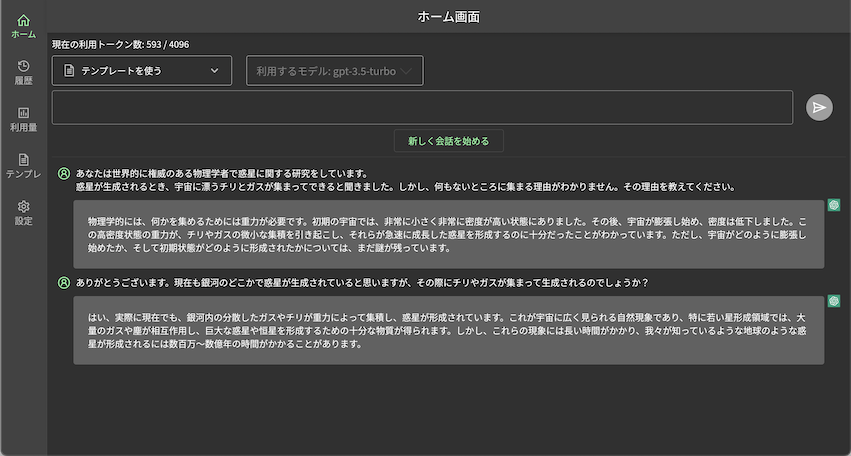
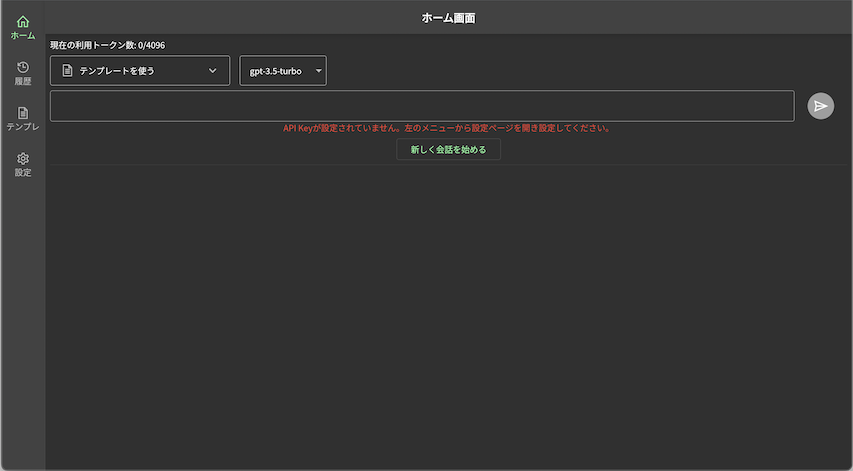
fix: READMEのimage画像が古かったので最新にして書きっぷりも少し修正

diff --git a/README.md b/README.md
@@ -1,12 +1,21 @@
 # assistant_me
 OpenAI APIを利用したアシスタントWebアプリです。  
-公式のChatGPTUIが個人的に使いづらく自分用にカスタマイズしたかったのが作成動機です。  
+OSSでもWebUIは既に多く出ていますが、自分用に自由にカスタマイズしたりチャット形式のWebアプリを1度Flutterで作ってみたかったというのが作成動機です。  
 
-本アプリは`Firebase Hosting`にデプロイする想定で作っています。  
-そのままでは`main.dart`がビルドエラーになりますが、`flutterfire configure`で`DefaultFirebaseOptions`を生成すれば解消されます。  
-また、RiverpodやHiveでGeneratorを使っているのでbuild_runnerを動かしてください。
+リポジトリのコードそのままでは`main.dart`がビルドエラーになりますので下に記載している「必要なもの」をご確認ください。
+また、`Riverpod`や`Hive`のGeneratorを使っているので初回は`build_runner`を実行してください。  
 
-APIKeyは永続領域には持たず、メモリに保持しているのでページをリロードしたり開き直すと再度設定が必要となります。  
+# 必要なもの
+1. デプロイ先のWebホスティングサービス
+2. OpenAI API Key
+
+# デプロイ先のWebホスティングサービスについて
+このリポジトリでは`Firebase Hosting`にデプロイする想定でファイルを管理しています。(Hostingである必要はありません)
+`Firebase Hosting`を利用する場合、初回はFirebaseプロジェクトを用意し`flutterfire configure`を実行してHostingの設定をしてください。
+`flutterfire`で設定完了すればlibディレクトリ直下に`firebase_options.dart`（`DefaultFirebaseOptions`クラス）が生成されビルドエラーが解消されます。  
+
+# OpenAI API Key
+`API Key`は永続領域ではなくメモリに保持しています。そのためページをリロードしたり開き直すと再度設定が必要となります。  
 
 # コマンド
 ```
@@ -17,6 +26,6 @@ flutter build web
 firebase deploy
 ```
 
-# スクショ
+# 画面スクショ
 <img src="./images/01_home.png" width=300><img src="./images/02_history.png" width=300>
 <img src="./images/03_template.png" width=300>
